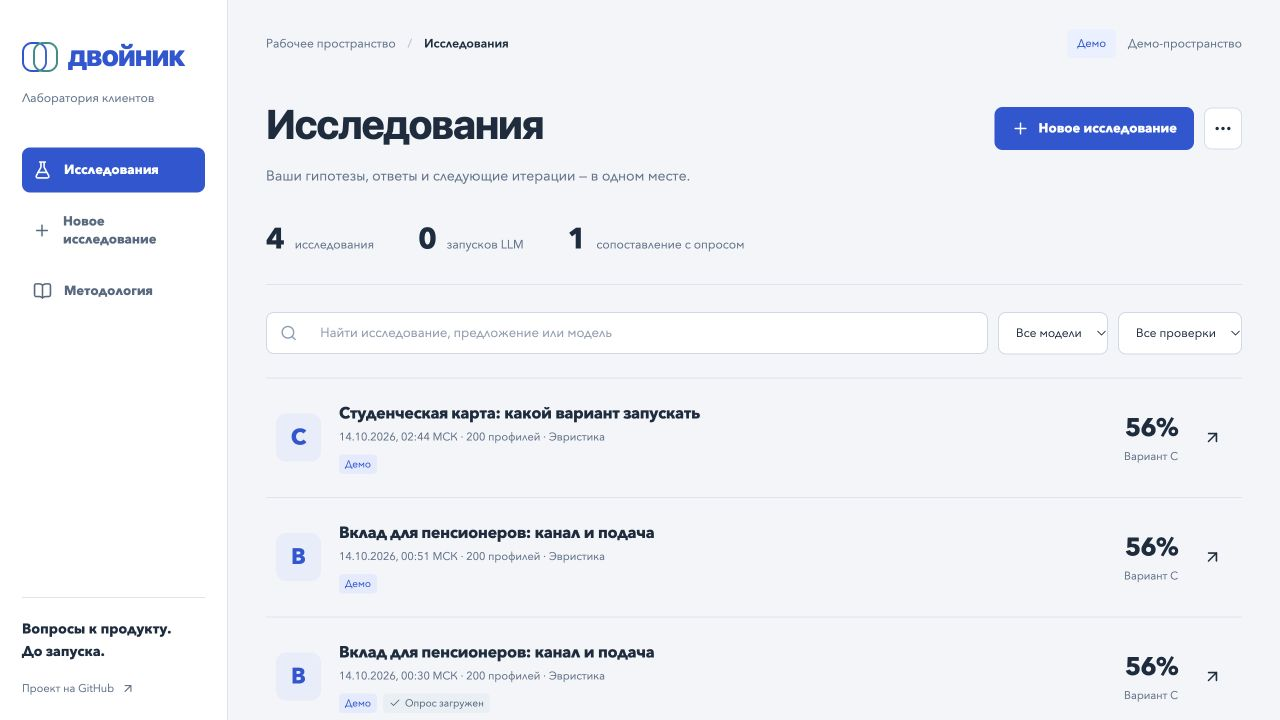
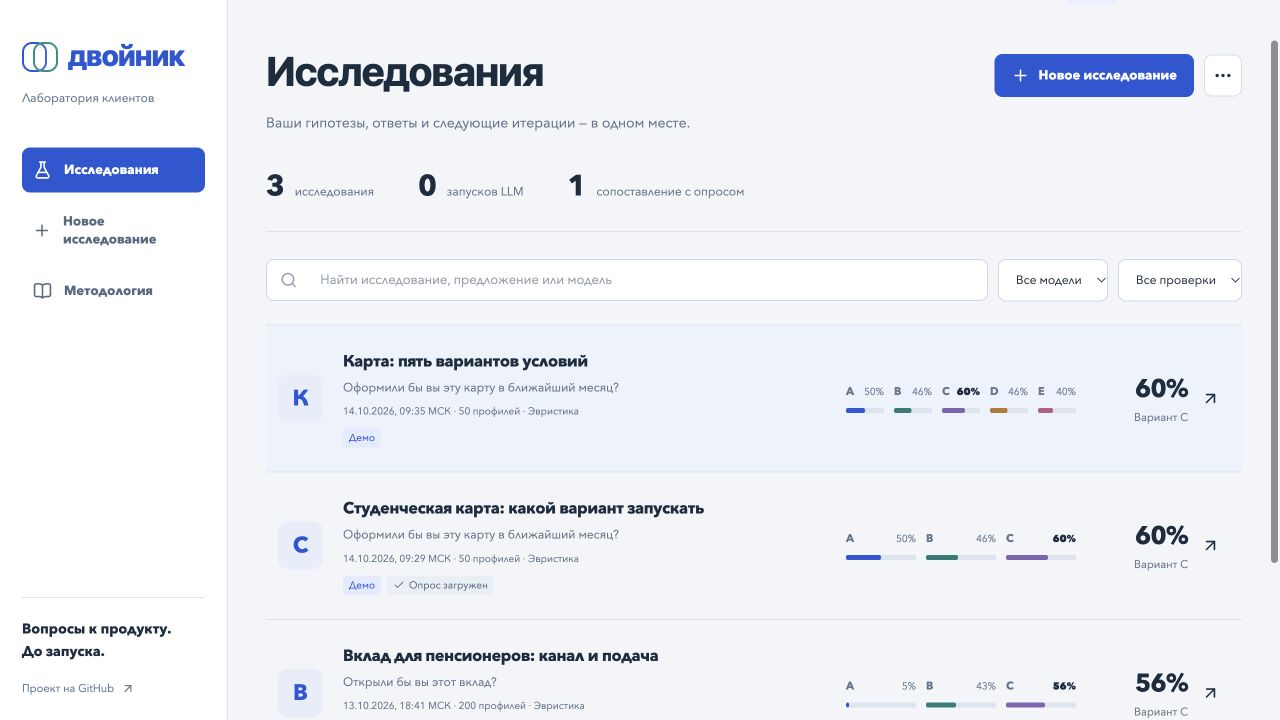
Document modular boundaries and refresh research catalogue design

diff --git a/frontend/src/styles/research.css b/frontend/src/styles/research.css
@@ -178,6 +178,11 @@
 /* One journal entry exposes the question, audience and each saved alternative. */
 .study-main {
   display: grid;
+  align-items: center;
+  width: 100%;
+  text-align: left;
+  border: 0;
+  background: transparent;
   grid-template-columns: 45px minmax(0, 1fr) minmax(160px, 230px) 85px 19px;
   padding: 24px 12px;
   gap: 20px;

diff --git a/docs/architecture.md b/docs/architecture.md
@@ -22,11 +22,17 @@ flowchart LR
 
 ## Границы модулей
 
-- `frontend/src/App.tsx`: рабочее пространство, маршруты hash, владелец черновиков и переходы.
-- `frontend/src/api.ts`: same-origin запросы, CSRF, ошибки и отклонение ответов прежней сессии.
-- `frontend/src/draft.ts`: отдельные копии настроек и сохранение скрытых D/E.
-- `Composer`, `Library`, `Report`, `Compare`, `Account`, `Methodology`: страницы и пользовательские действия.
-- `dvoinik/api.py`: HTTP-контракты, сессия, проверка владельца, preview/save и статический интерфейс.
+- `frontend/src/App.tsx` и `app/useSession.ts`: вход, отзыв доступа и время жизни сессии. `Workspace` монтируется с ключом текущей cookie-сессии; новый аккаунт получает новые состояния компонентов.
+- `app/Workspace.tsx`: связывает сценарии и действия; `WorkspaceShell.tsx` отвечает за навигацию и оформление.
+- `app/useArchive.ts`, `useRecord.ts`, `useJob.ts`, `useCatalog.ts`, `useDrafts.ts`: загрузка, восстановление несохранённых результатов, опрос прогресса и черновики. Состояния загрузки и ошибок явные, повтор доступен без перезагрузки приложения.
+- `shared/requests.ts`: отмена запросов и защита от запоздавшего ответа при новой загрузке или сохранении. `api.ts` отдельно контролирует epoch авторизации и CSRF для всех запросов.
+- `features/reports/`: отдельные панели результата, аудитории, голосов, опроса и графика; `useInsights.ts` загружает серверную аналитику. Панель опроса остаётся смонтированной при смене вкладки.
+- `features/research/ResponsePreview.tsx`: мини-графики сохранённых долей в каталоге, общая шкала0–100%, пропуски обозначены «—».
+- `draft.ts`, `types.ts` и `components.tsx`: общие контракты, копирование черновиков и UI-примитивы. `styles/` хранит стили по функциям; `style.css` задаёт порядок каскада, адаптация применяется последней.
+- `dvoinik/api.py`: совместимая фабрика приложения и сборка модулей, без расчётов исследований.
+- `dvoinik/http/models.py`: строгие схемы запросов; `runtime.py`: сервисы текущего приложения, временные снимки, опросы, сравнение и подготовка экспорта.
+- `dvoinik/http/security.py`: cookie/CSRF, проверка origin, обработка ошибок и заголовки защиты; `static.py`: отдача собранного интерфейса.
+- `dvoinik/http/routers/`: группы доступа, исследований, опросов, скачивания и администрирования. Маршруты получают runtime из текущего запроса; фабрики не используют общие кэши или секреты.
 - `dvoinik/jobs.py`: два рабочих потока, очередь, фактический прогресс и восстановление записи.
 - `runs.py`: единый запуск UI/CLI, строгие параметры и guard доступа.
 - `population.py`, `engine.py`: точное распределение профилей, асинхронные оценки и агрегация.
@@ -95,6 +101,6 @@ Frontend: `npm test --prefix frontend`, `npm run build --prefix frontend`, `npm 
 
 Проверяются существующие доменные контракты, UI Streamlit, HTTP-сессии/CSRF/изоляция,
 отзыв доступа при запуске, очередь/повтор записи, закрытый экспорт и конфликт опросов.
-Frontend-проверки защищают черновики и отбрасывание ответов прежнего аккаунта.
+Frontend-проверки защищают черновики, отбрасывание ответов прежнего аккаунта и новой загрузки, а также отмену старого чтения после сохранения.
 Browser QA проверяет реальные переходы, файлы, клавиатуру и 390 px.
 Эти проверки не подтверждают точность реальной LLM или бизнес-результаты пилота.

diff --git a/docs/superpowers/plans/2026-10-14-modular-workspace.md b/docs/superpowers/plans/2026-10-14-modular-workspace.md
@@ -23,25 +23,25 @@ Preserve187 Python and11 frontend checks; localhost only; schema2 and all routes
 
 Files: dvoinik/api.py, dvoinik/http/{models,runtime,security,routers}.py or focused route files; tests/test_api.py.
 Interfaces: create_app(path=None,mode=None,static_dir=None), COOKIE, app.state.auth/jobs and all HTTP payloads remain compatible. Route modules depend on per-app runtime; runtime uses existing auth/storage/domain functions.
-- [ ] Confirm clean baseline; use existing HTTP tests as behavior characterization.
-- [ ] Extract request schemas/runtime/access boundary and focused route groups without new domain logic or global state.
-- [ ] Verify two separate factories cannot share caches/records; run187 Python tests and Ruff; commit backend paths only.
+- [x] Confirm clean baseline; use existing HTTP tests as behavior characterization.
+- [x] Extract request schemas/runtime/access boundary and focused route groups without new domain logic or global state.
+- [x] Verify two separate factories cannot share caches/records; run187 Python tests and Ruff; commit backend paths only.
 
 ## Task2: React boundaries and data lifecycle
 
 Files: app/{App,Workspace,useSession,useArchive,useRecord,useJob,useHashRoute}.tsx/ts, features/reports/{ReportPage,Overview,Audience,Voices,ConversionChart,ValidationPanel,useInsights,types}; services/data helpers as needed.
 Interfaces: typed session/record/job domain payloads unchanged; focused hooks expose loading/error/retry, current record and pending snapshots. Workspace remounts on cookie session identity.
-- [ ] Add lifecycle regression tests: latest read wins, invalidating after save rejects old results, disposing rejects writes. Run Vitest to observe RED.
-- [ ] Implement lifecycle cancellation utility and focused hooks; keep transport epoch guard authoritative for account changes.
-- [ ] Extract views without changing their simulation/validation meaning; preserve hidden mounted validation panel and native keyboard/modal behavior.
-- [ ] Run all frontend tests/strict TypeScript/build/format; commit focused frontend boundary changes.
+- [x] Add lifecycle regression tests: latest read wins, invalidating after save rejects old results, disposing rejects writes. Run Vitest to observe RED.
+- [x] Implement lifecycle cancellation utility and focused hooks; keep transport epoch guard authoritative for account changes.
+- [x] Extract views without changing their simulation/validation meaning; preserve hidden mounted validation panel and native keyboard/modal behavior.
+- [x] Run all frontend tests/strict TypeScript/build/format; commit focused frontend boundary changes.
 
 ## Task3: Research overview and delivery
 
 Files: Library.tsx/feature helpers, style.css or focused styles, app layout/loading states, docs/architecture.md, README screenshots.
 Interfaces: preview rendering consumes saved report conversions/nulls; no estimates or extra API calls. Existing onOpen/onNew/onCompare unchanged.
-- [ ] Add visible A–E preview and question/audience/quality context per snapshot; restrained cobalt/teal/lilac palette and mobile layout.
-- [ ] Add loading/failed-refresh/retry states; browser QA with isolated demo and fake accounts, including390px and real run/CSV/import.
-- [ ] Save screenshots; update architecture docs and plan status from verified results.
-- [ ] Run full Python/frontend verification; independent whole-diff review and fix material findings.
+- [x] Add visible A–E preview and question/audience/quality context per snapshot; restrained cobalt/teal/lilac palette and mobile layout.
+- [x] Add loading/failed-refresh/retry states; browser QA with isolated demo and fake accounts, including390px and real run/CSV/import.
+- [x] Save screenshots; update architecture docs and plan status from verified results.
+- [x] Run full Python/frontend verification; independent whole-diff review and fix material findings.
 - [ ] Back up root SQLite, fast-forward clean main, build/restart service, verify preservation, push and observe successful CI.

diff --git a/docs/superpowers/specs/2026-10-14-modular-workspace-design.md b/docs/superpowers/specs/2026-10-14-modular-workspace-design.md
@@ -15,10 +15,10 @@ A modular monolith fits the current MVP: one deployment and database, explicit a
 
 ## Interface direction
 
-Preserve cobalt #3154c9, teal #137d76, lilac #7d65b4, ink #202b38, muted #6c7886 and paper #f5f7fb. Use local system typography, strong research titles, compact navigation and restrained surfaces. The catalogue becomes a research overview: each snapshot shows its question, audience, A–E response preview and verification state. Percentages come directly from the server snapshot. Ties and missing answers remain explicit. One row opens the report; import/comparison remain in the menu.
+Preserve cobalt #2457d6, teal #137d76, lilac #7d65b4, ink #192d40, muted #60758c and canvas #f3f5f9. Use local system typography, strong research titles, compact navigation and restrained surfaces. The catalogue becomes a research overview: each snapshot shows its question, audience, A–E response preview and verification state. Percentages come directly from the server snapshot. Ties and missing answers remain explicit. One row opens the report; import/comparison remain in the menu.
 
 Loading must not look like an empty archive. Unavailable data offers a retry; existing data stays readable after a failed refresh. Report panels retain CSV previews across tab changes, roving keyboard navigation, focus return, responsive tables and clear demo labeling. UI errors do not expose provider credentials.
 
 ## Acceptance
 
-All187 existing Python and11 frontend checks remain green. API factories remain independent: two apps must not share runtime caches or owners. Request lifecycle tests pin latest-wins and disposal, including a save invalidating an earlier read. Browser QA on an isolated mock database covers sample/run/archive/import/compare/validation/reload/logout, keyboard and390px. No real credentials or real archive are used for QA. Update architecture documentation and real screenshots, review the complete diff independently, fast-forward clean main, back up actual SQLite before restart, push and verify CI.
+All187 existing Python and11 frontend checks remain green. API factories remain independent: two apps must not share runtime caches or owners. React-hook integration tests use development-only Testing Library/jsdom on Node24.15+; production dependencies remain unchanged. Request lifecycle tests pin latest-wins and disposal, including a save invalidating an earlier read. Browser QA on an isolated mock database covers sample/run/archive/import/compare/validation/reload/logout, keyboard and390px. No real credentials or real archive are used for QA. Update architecture documentation and real screenshots, review the complete diff independently, fast-forward clean main, back up actual SQLite before restart, push and verify CI.

diff --git a/README.md b/README.md
@@ -34,7 +34,7 @@
 
 ## Запустить демо без аккаунта, API-ключа и GPU
 
-Нужны Git, Python **3.11 или 3.12** и Node.js **24** для сборки интерфейса.
+Нужны Git, Python **3.11 или 3.12** и Node.js **24.15+** (ветка24) для сборки интерфейса.
 Команды для macOS/Linux:
 
 ```bash
@@ -69,6 +69,19 @@ DVOINIK_AUTH_MODE=demo python serve.py
 [Сохранённый пример](examples/senior-deposit.demo.json) не содержит живой проверки.
 
 ![Пошаговый редактор исследования](docs/images/constructor.png)
+
+В каталоге видны вопрос, аудитория и доли согласий по всем предложениям.
+
+![Каталог с обзором вариантов](docs/images/library.png)
+
+Скриншоты получены на демонстрационных данных; загруженный в браузерной проверке опрос синтетический.
+
+## Для разработки
+
+Сервер разделён на схемы запросов, сервисы приложения, защиту доступа и группы маршрутов.
+React разделяет время жизни сессии, загрузку данных и панели отчёта. Стили сгруппированы по функциям.
+[Границы модулей и поток данных](docs/architecture.md) описывают, где добавлять новые возможности.
+
 
 ## Что ещё предстоит подтвердить
 

diff --git a/docs/development.md b/docs/development.md
@@ -170,6 +170,8 @@ npm run format --prefix frontend
 ```
 
 GitHub Actions проверяет Python 3.11/3.12 и frontend на Node24. Реальная LLM для тестов не нужна.
+Тесты React-хуков используют jsdom и Testing Library только как зависимости разработки. Они проверяют смену отчёта во время сохранения, поздние ответы и восстановление полного каталога.
+
 Frontend dev server: `npm run dev --prefix frontend`; Python API должен работать на 8501,
 запросы `/api` и `/download` проходят через локальный Vite proxy.
 
